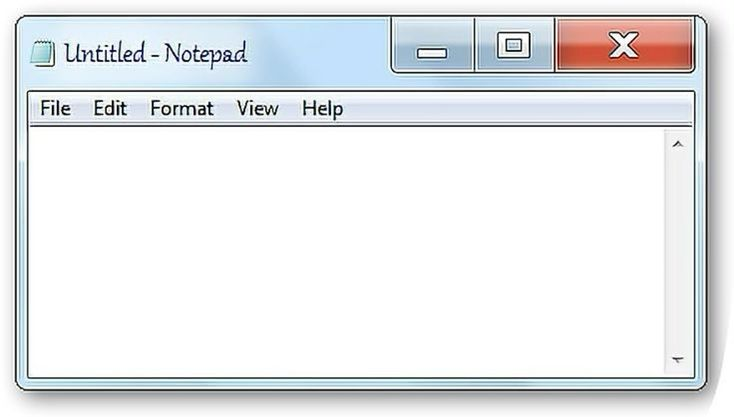
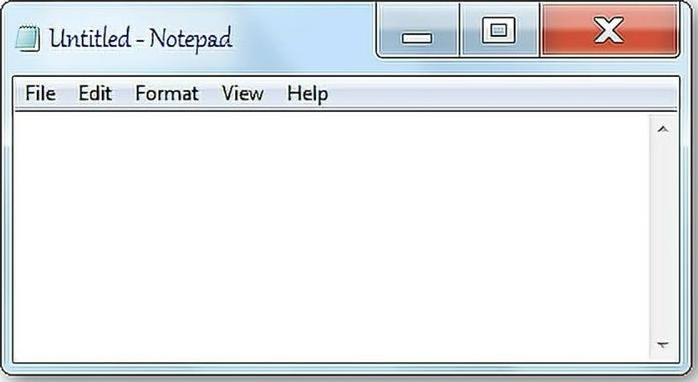
main

diff --git a/src/styles/wmp-ident.css b/src/styles/wmp-ident.css
@@ -15,13 +15,13 @@
   user-select: none;
 }
 
-/* Black display viewport — tuned to wmp-ident-frame.png (482×510) */
+/* Black display viewport — wmp-ident-frame.png */
 .wmp-ident-viewport {
   position: absolute;
-  top: 14.9%;
-  right: 5.4%;
-  bottom: 31%;
-  left: 5.4%;
+  top: 19.2%;
+  right: 2.8%;
+  bottom: 15.4%;
+  left: 2%;
   box-sizing: border-box;
   container-type: size;
   container-name: wmp-ident;
@@ -29,7 +29,7 @@
   grid-template-rows: minmax(0, 1fr) auto;
   align-items: stretch;
   gap: 0.12rem;
-  padding: 0.12rem 0.2rem 0.1rem;
+  padding: 1.75rem 0.2rem 0.35rem;
   overflow: hidden;
 }
 
@@ -40,6 +40,7 @@
   width: 100%;
   display: grid;
   place-items: center;
+  align-items: end;
 }
 
 .wmp-ident-portrait-wrap .ident-portrait-ring {
@@ -56,7 +57,7 @@
 
 .wmp-ident-caption {
   width: 100%;
-  padding: 0.15rem 0.05rem 0.05rem;
+  padding: 0.15rem 0.05rem 0.1rem;
   text-align: center;
   overflow: hidden;
   border-top: 1px solid rgba(255, 126, 185, 0.4);
@@ -96,8 +97,7 @@
 
 @media (max-width: 1023px) {
   .wmp-ident-viewport {
-    top: 14.6%;
-    bottom: 30.6%;
+    padding-top: 1.5rem;
   }
 
   .wmp-ident-portrait-wrap .ident-portrait-ring {

diff --git a/src/styles/notepad-guide.css b/src/styles/notepad-guide.css
@@ -1,8 +1,10 @@
 .notepad-guide-shell {
   position: relative;
   width: 100%;
+  overflow: hidden;
   border: 2px solid #000;
   box-shadow: 4px 4px 0 #000;
+  background: #0f0c29;
 }
 
 .notepad-guide-frame {
@@ -14,15 +16,15 @@
   user-select: none;
 }
 
-/* White document area — tuned to notepad-guide-frame.png (734×417) */
+/* Lined document area only — notepad-guide-frame.png (698×382) */
 .notepad-guide-viewport {
   position: absolute;
-  top: 13.8%;
-  right: 10.8%;
-  bottom: 3.2%;
-  left: 2.6%;
+  top: 21.2%;
+  right: 13.5%;
+  bottom: 7%;
+  left: 2.2%;
   box-sizing: border-box;
-  padding: 0.35rem 0.5rem 0.4rem 0.55rem;
+  padding: 0.45rem 0.55rem 0.35rem 0.65rem;
   overflow: hidden;
   background: transparent;
 }
@@ -32,6 +34,7 @@
   width: 100%;
   height: 100%;
   overflow-y: auto;
+  overflow-x: hidden;
   font-family: 'Comic Sans MS', 'Comic Sans', cursive;
   font-size: clamp(0.72rem, 1.85vw, 0.92rem);
   line-height: 1.45;